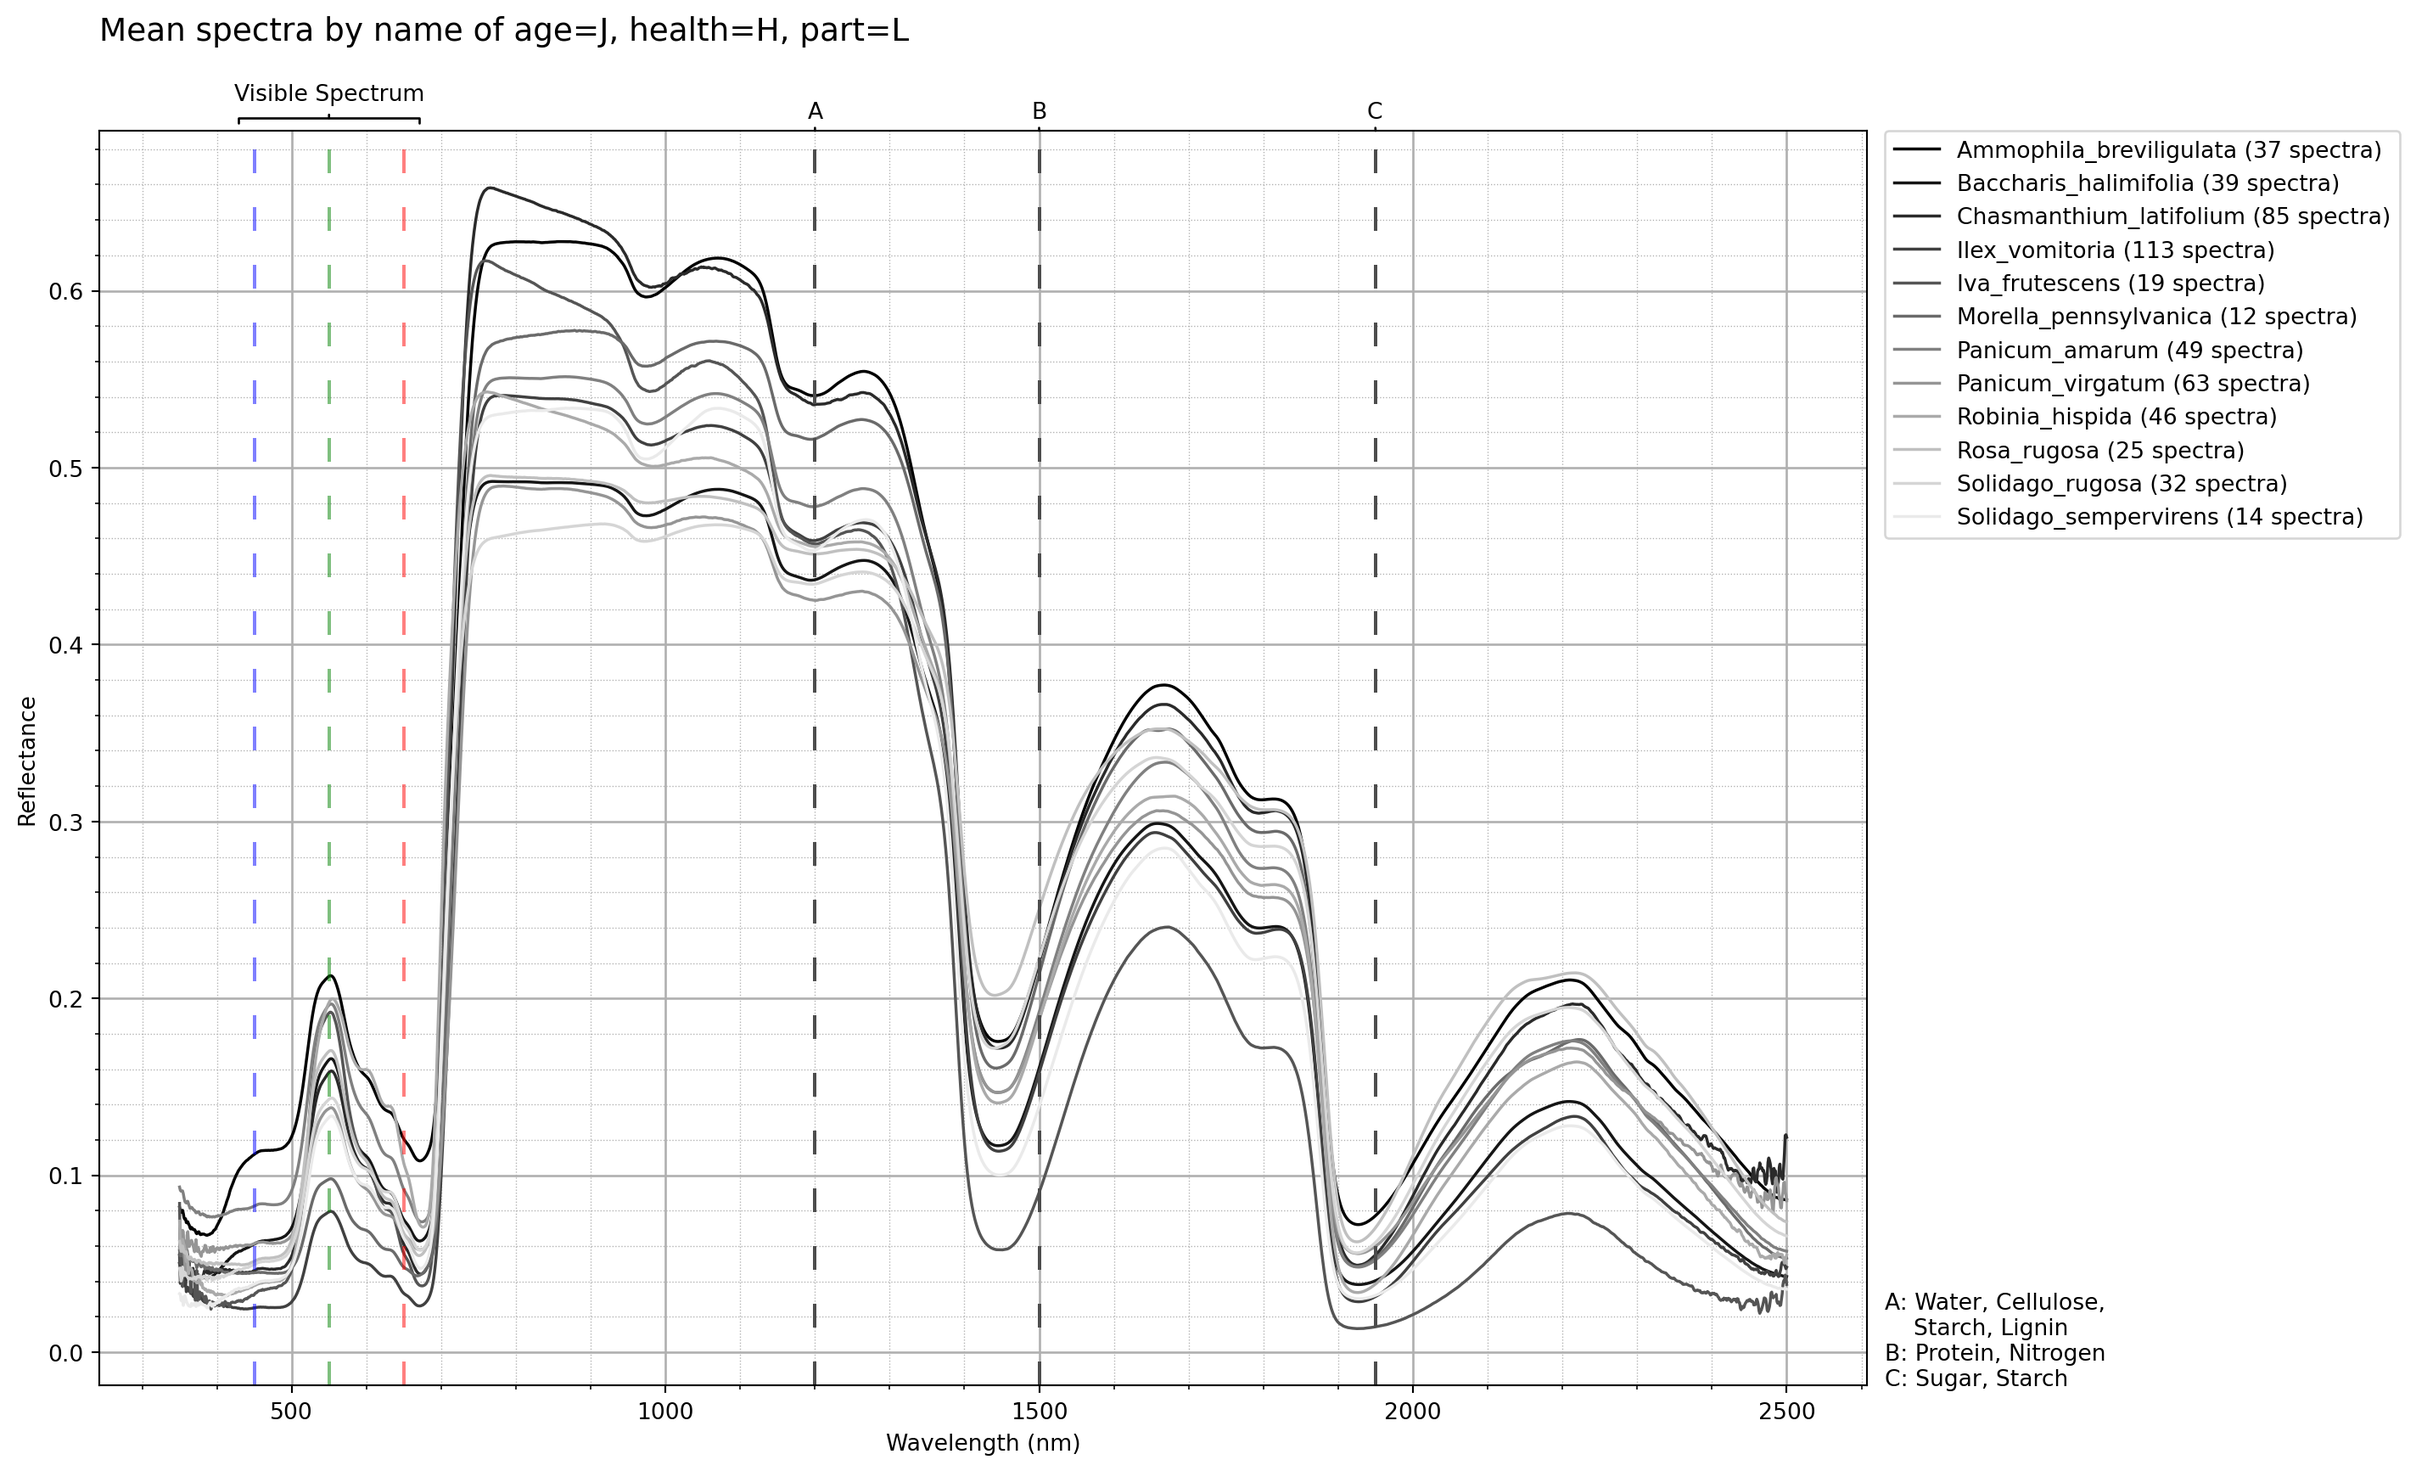
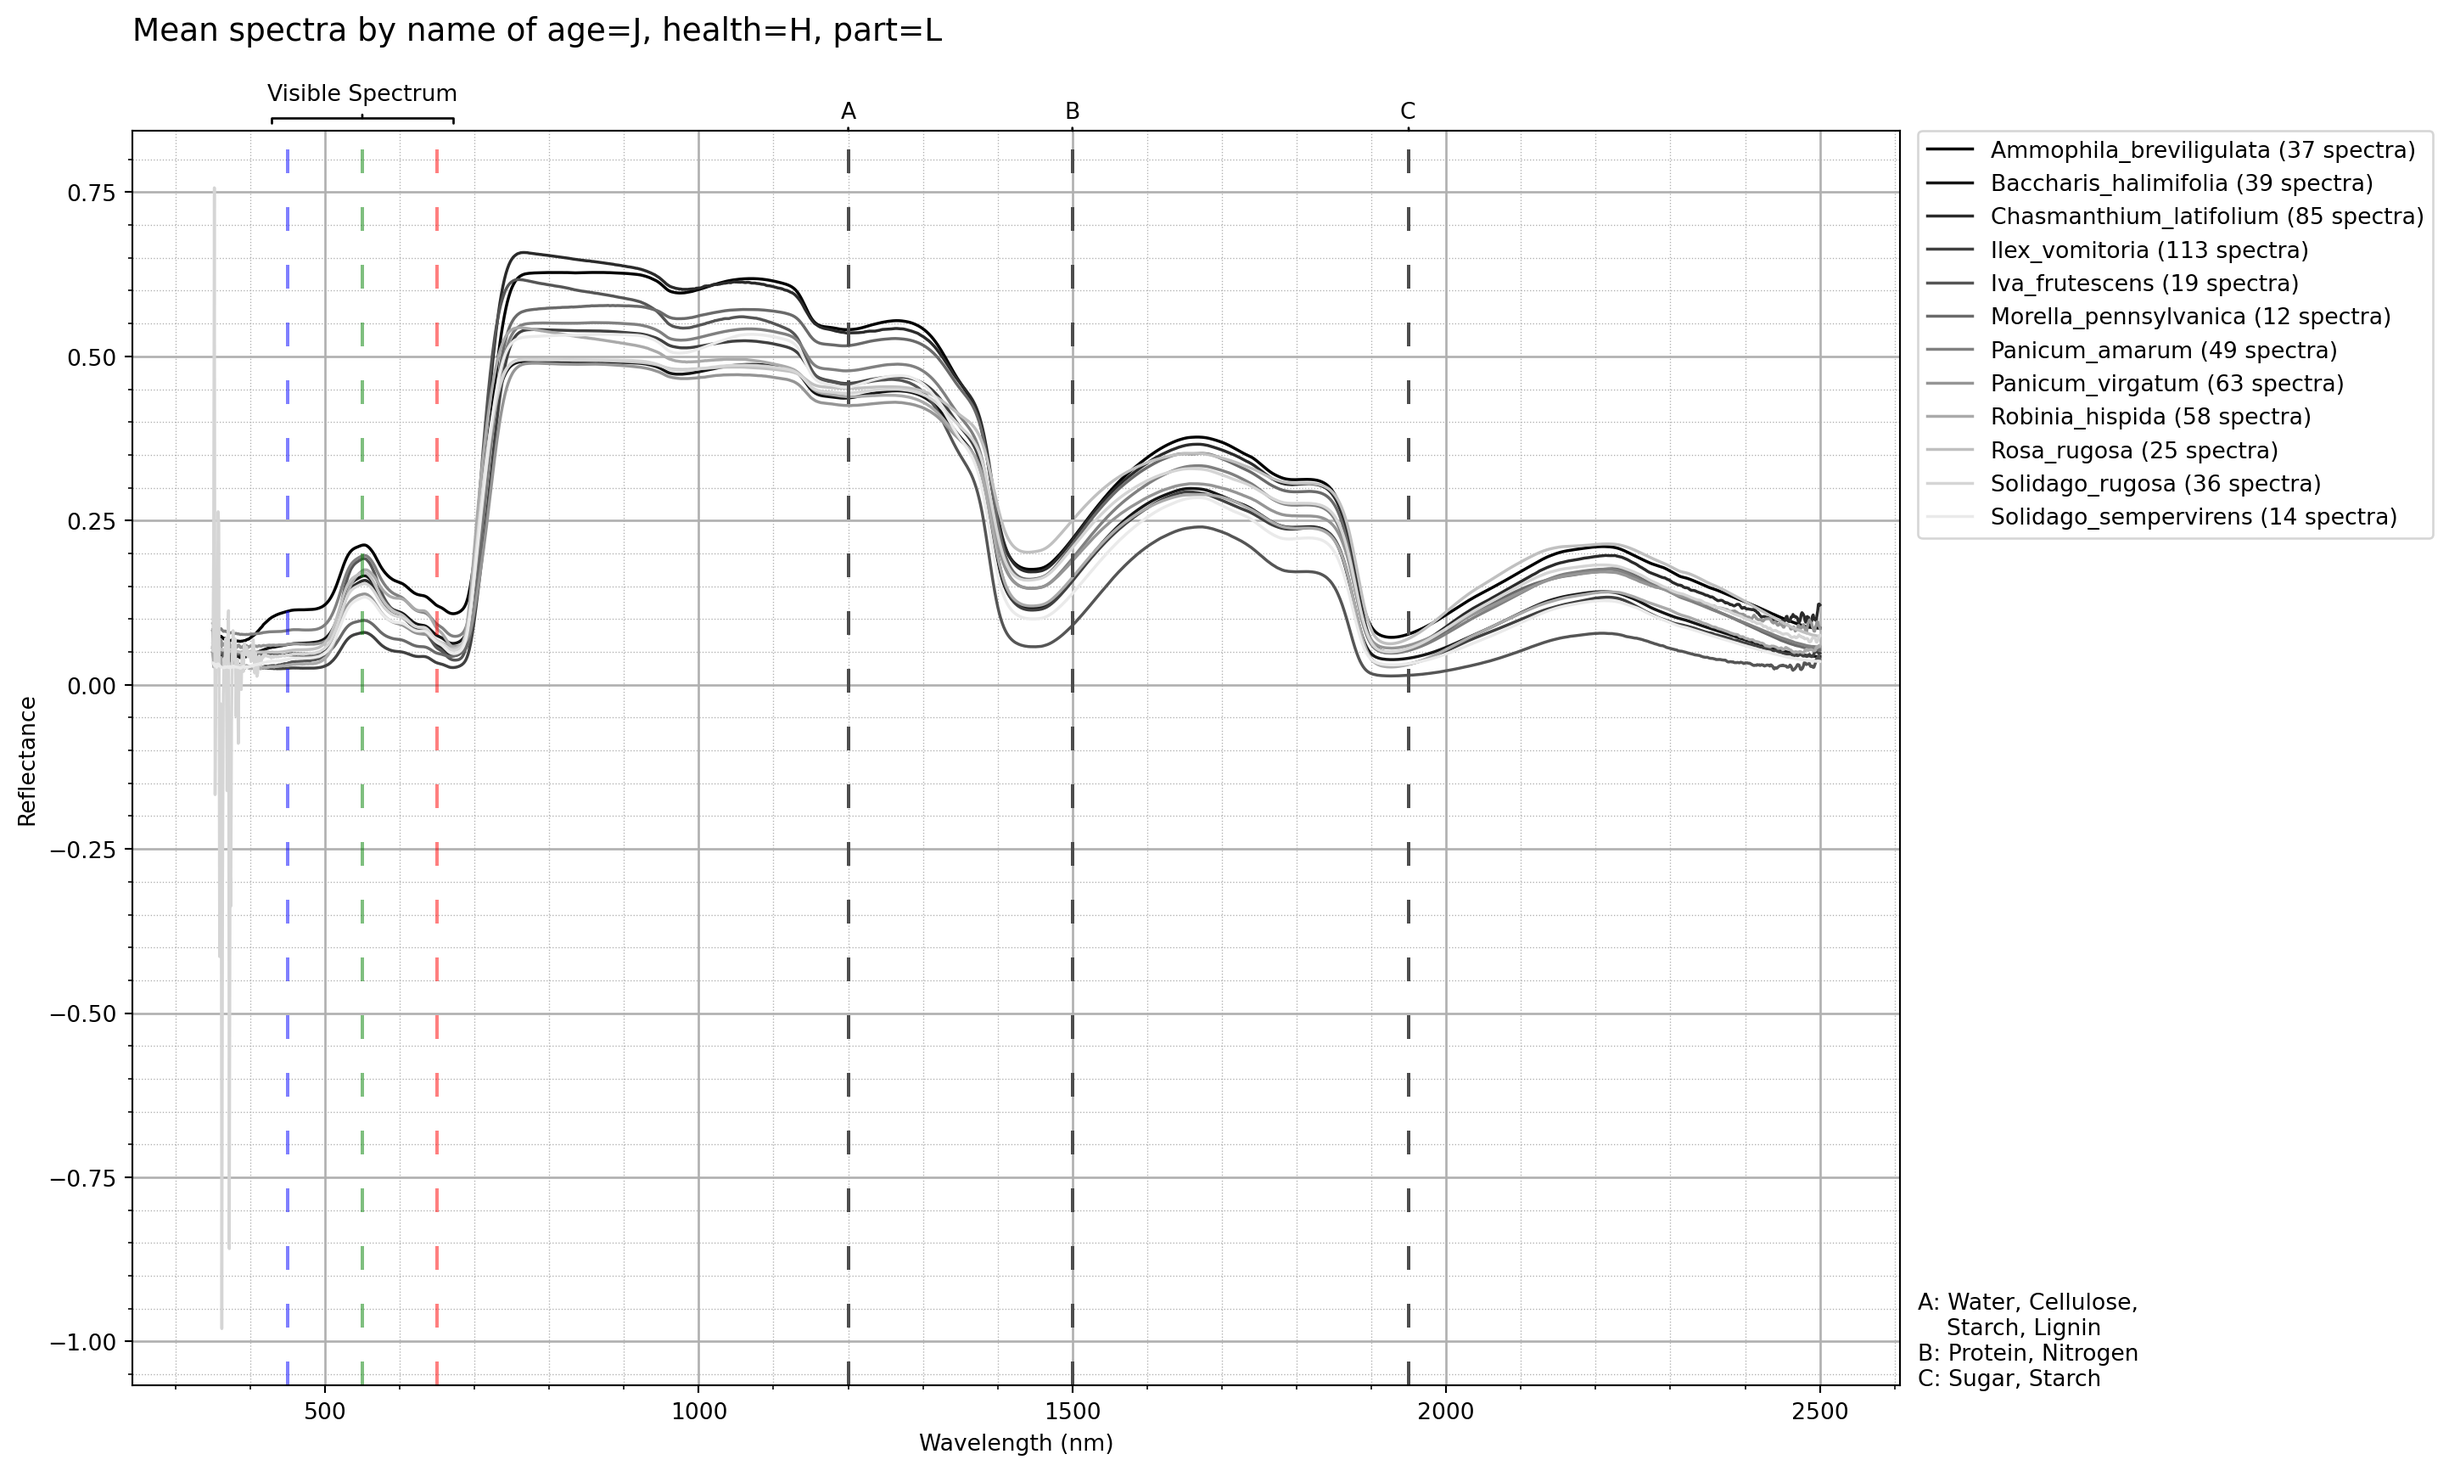
Built site for gh-pages

diff --git a/reports/Report1.html b/reports/Report1.html
@@ -152,7 +152,7 @@ ul.task-list li input[type="checkbox"] {
 
 <section id="spectral-library" class="level2 page-columns page-full">
 <h2 class="anchored" data-anchor-id="spectral-library">Spectral Library</h2>
-<p>Number of Spectra: 5179</p>
+<p>Number of Spectra: 5303</p>
 <div id="cell-table1" class="cell page-columns page-full" data-execution_count="9">
 <div id="table1" class="cell-output cell-output-display column-page-inset-right" data-execution_count="9">
 <div>
@@ -367,25 +367,25 @@ ul.task-list li input[type="checkbox"] {
 </tr>
 <tr class="odd">
 <td data-quarto-table-cell-role="th">Morella_pennsylvanica</td>
-<td>394</td>
+<td>441</td>
 <td>48</td>
-<td>262</td>
-<td>4</td>
+<td>267</td>
 <td>19</td>
-<td>47</td>
+<td>28</td>
+<td>65</td>
 <td>0</td>
 <td>14</td>
 <td>0</td>
 <td>0</td>
 <td>5</td>
-<td>53</td>
-<td>336</td>
+<td>76</td>
+<td>360</td>
 <td>74</td>
-<td>215</td>
+<td>238</td>
 <td>0</td>
 <td>0</td>
 <td>0</td>
-<td>0</td>
+<td>24</td>
 <td>62</td>
 <td>43</td>
 <td>0</td>
@@ -454,21 +454,21 @@ ul.task-list li input[type="checkbox"] {
 </tr>
 <tr class="even">
 <td data-quarto-table-cell-role="th">Robinia_hispida</td>
-<td>292</td>
+<td>346</td>
 <td>55</td>
-<td>114</td>
-<td>67</td>
+<td>126</td>
+<td>77</td>
 <td>0</td>
-<td>56</td>
-<td>0</td>
+<td>65</td>
+<td>23</td>
 <td>0</td>
 <td>0</td>
 <td>0</td>
 <td>138</td>
-<td>136</td>
+<td>190</td>
 <td>18</td>
 <td>13</td>
-<td>279</td>
+<td>333</td>
 <td>0</td>
 <td>0</td>
 <td>0</td>
@@ -477,7 +477,7 @@ ul.task-list li input[type="checkbox"] {
 <td>0</td>
 <td>0</td>
 <td>0</td>
-<td>0</td>
+<td>54</td>
 <td>0</td>
 <td>0</td>
 </tr>
@@ -512,21 +512,21 @@ ul.task-list li input[type="checkbox"] {
 </tr>
 <tr class="even">
 <td data-quarto-table-cell-role="th">Solidago_rugosa</td>
-<td>253</td>
+<td>276</td>
 <td>4</td>
-<td>230</td>
-<td>8</td>
+<td>239</td>
+<td>22</td>
 <td>0</td>
 <td>0</td>
 <td>11</td>
 <td>0</td>
 <td>0</td>
 <td>24</td>
-<td>11</td>
-<td>197</td>
+<td>16</td>
+<td>215</td>
 <td>21</td>
 <td>34</td>
-<td>99</td>
+<td>122</td>
 <td>0</td>
 <td>0</td>
 <td>0</td>
@@ -708,7 +708,7 @@ ul.task-list li input[type="checkbox"] {
 <div class="cell-output cell-output-display page-columns page-full">
 <div class="page-columns page-full">
 <figure class="figure page-columns page-full">
-<p class="page-columns page-full"><img src="Report1_files/figure-html/cell-19-output-1.png" width="1424" height="867" class="figure-img column-page"></p>
+<p class="page-columns page-full"><img src="Report1_files/figure-html/cell-19-output-1.png" width="1443" height="867" class="figure-img column-page"></p>
 </figure>
 </div>
 </div>
